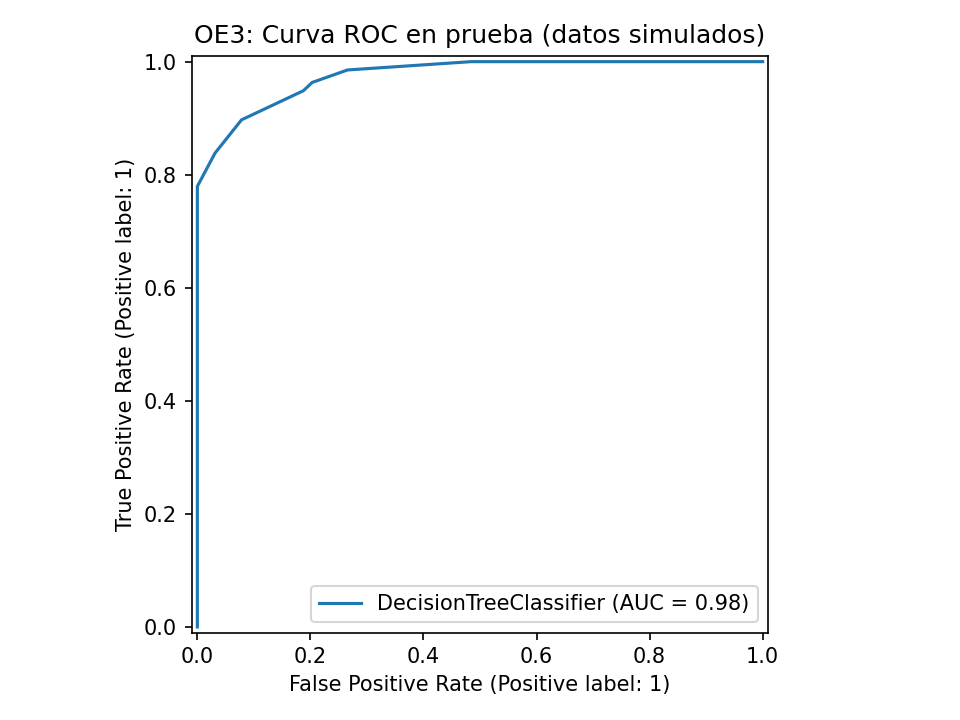
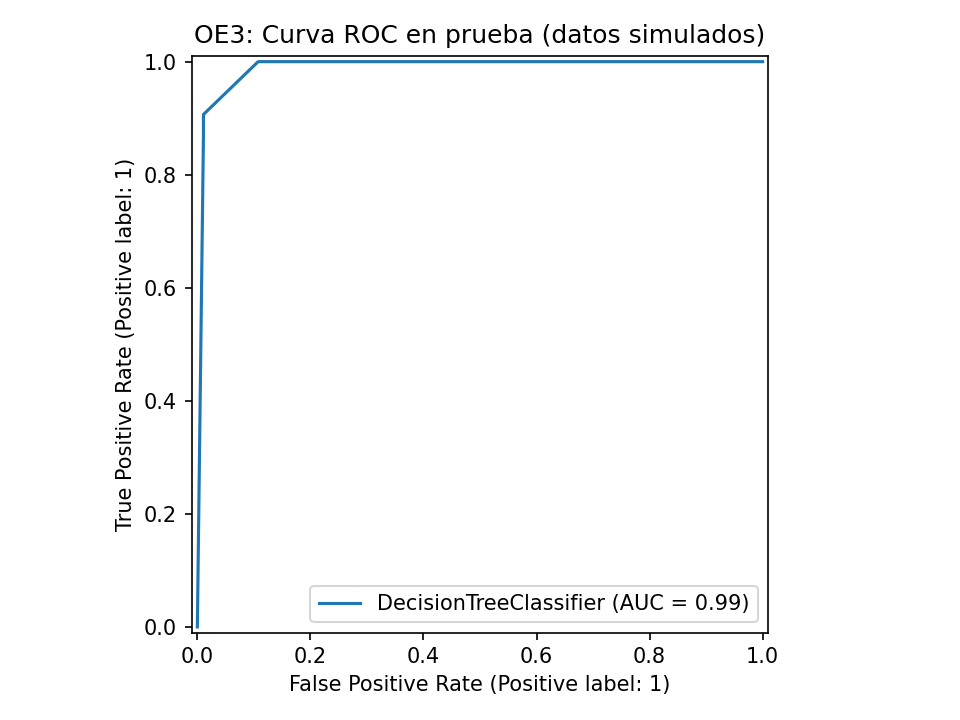
Diferenciar mercado de retorno por ciudad en OE3 y actualizar base de datos

diff --git a/consola/generarSQL.py b/consola/generarSQL.py
@@ -114,7 +114,12 @@ def generar_recorridos_completos(semilla=SEMILLA, cantidad_por_corredor=500):
         # 1) Evaluar OE3 desde Huancayo/Trujillo hacia Callao
         dia_ent = int(ventana_ida.dayofweek) + 1                        # -> día entrega (1-7)
         quincena_ent = 1 if ventana_ida.day <= 15 else 2                # -> quincena (1 o 2)
-        sol_comp = int(solicitudes_azar[i])
+        if ciudad_prov == "Trujillo":
+            sol_comp = int(azar.choice([0, 1, 2, 3, 4, 5], p=[0.05, 0.15, 0.25, 0.25, 0.20, 0.10]))
+            pts_ciu = 20
+        else:
+            sol_comp = int(azar.choice([0, 1, 2, 3], p=[0.20, 0.35, 0.30, 0.15]))
+            pts_ciu = 0
 
         # Usar solo retornos de esta ciudad que terminaron antes de evaluar la ida.
         finalizados = []
@@ -138,7 +143,6 @@ def generar_recorridos_completos(semilla=SEMILLA, cantidad_por_corredor=500):
         pts_sol = sol_comp * 20
         pts_quin = 15 if quincena_ent == 2 else 0
         pts_dia = 15 if dia_ent <= 5 else 0
-        pts_ciu = 10 if ciudad_prov == "Trujillo" else 0
         pts_hist = prop_prev * 30
         puntaje = pts_sol + pts_quin + pts_dia + pts_ciu + pts_hist + int(variaciones_azar[i])
         vuelve_cargado = 1 if (sol_comp > 0 and puntaje >= 70) else 0   # -> 1=cargado, 0=vacío
